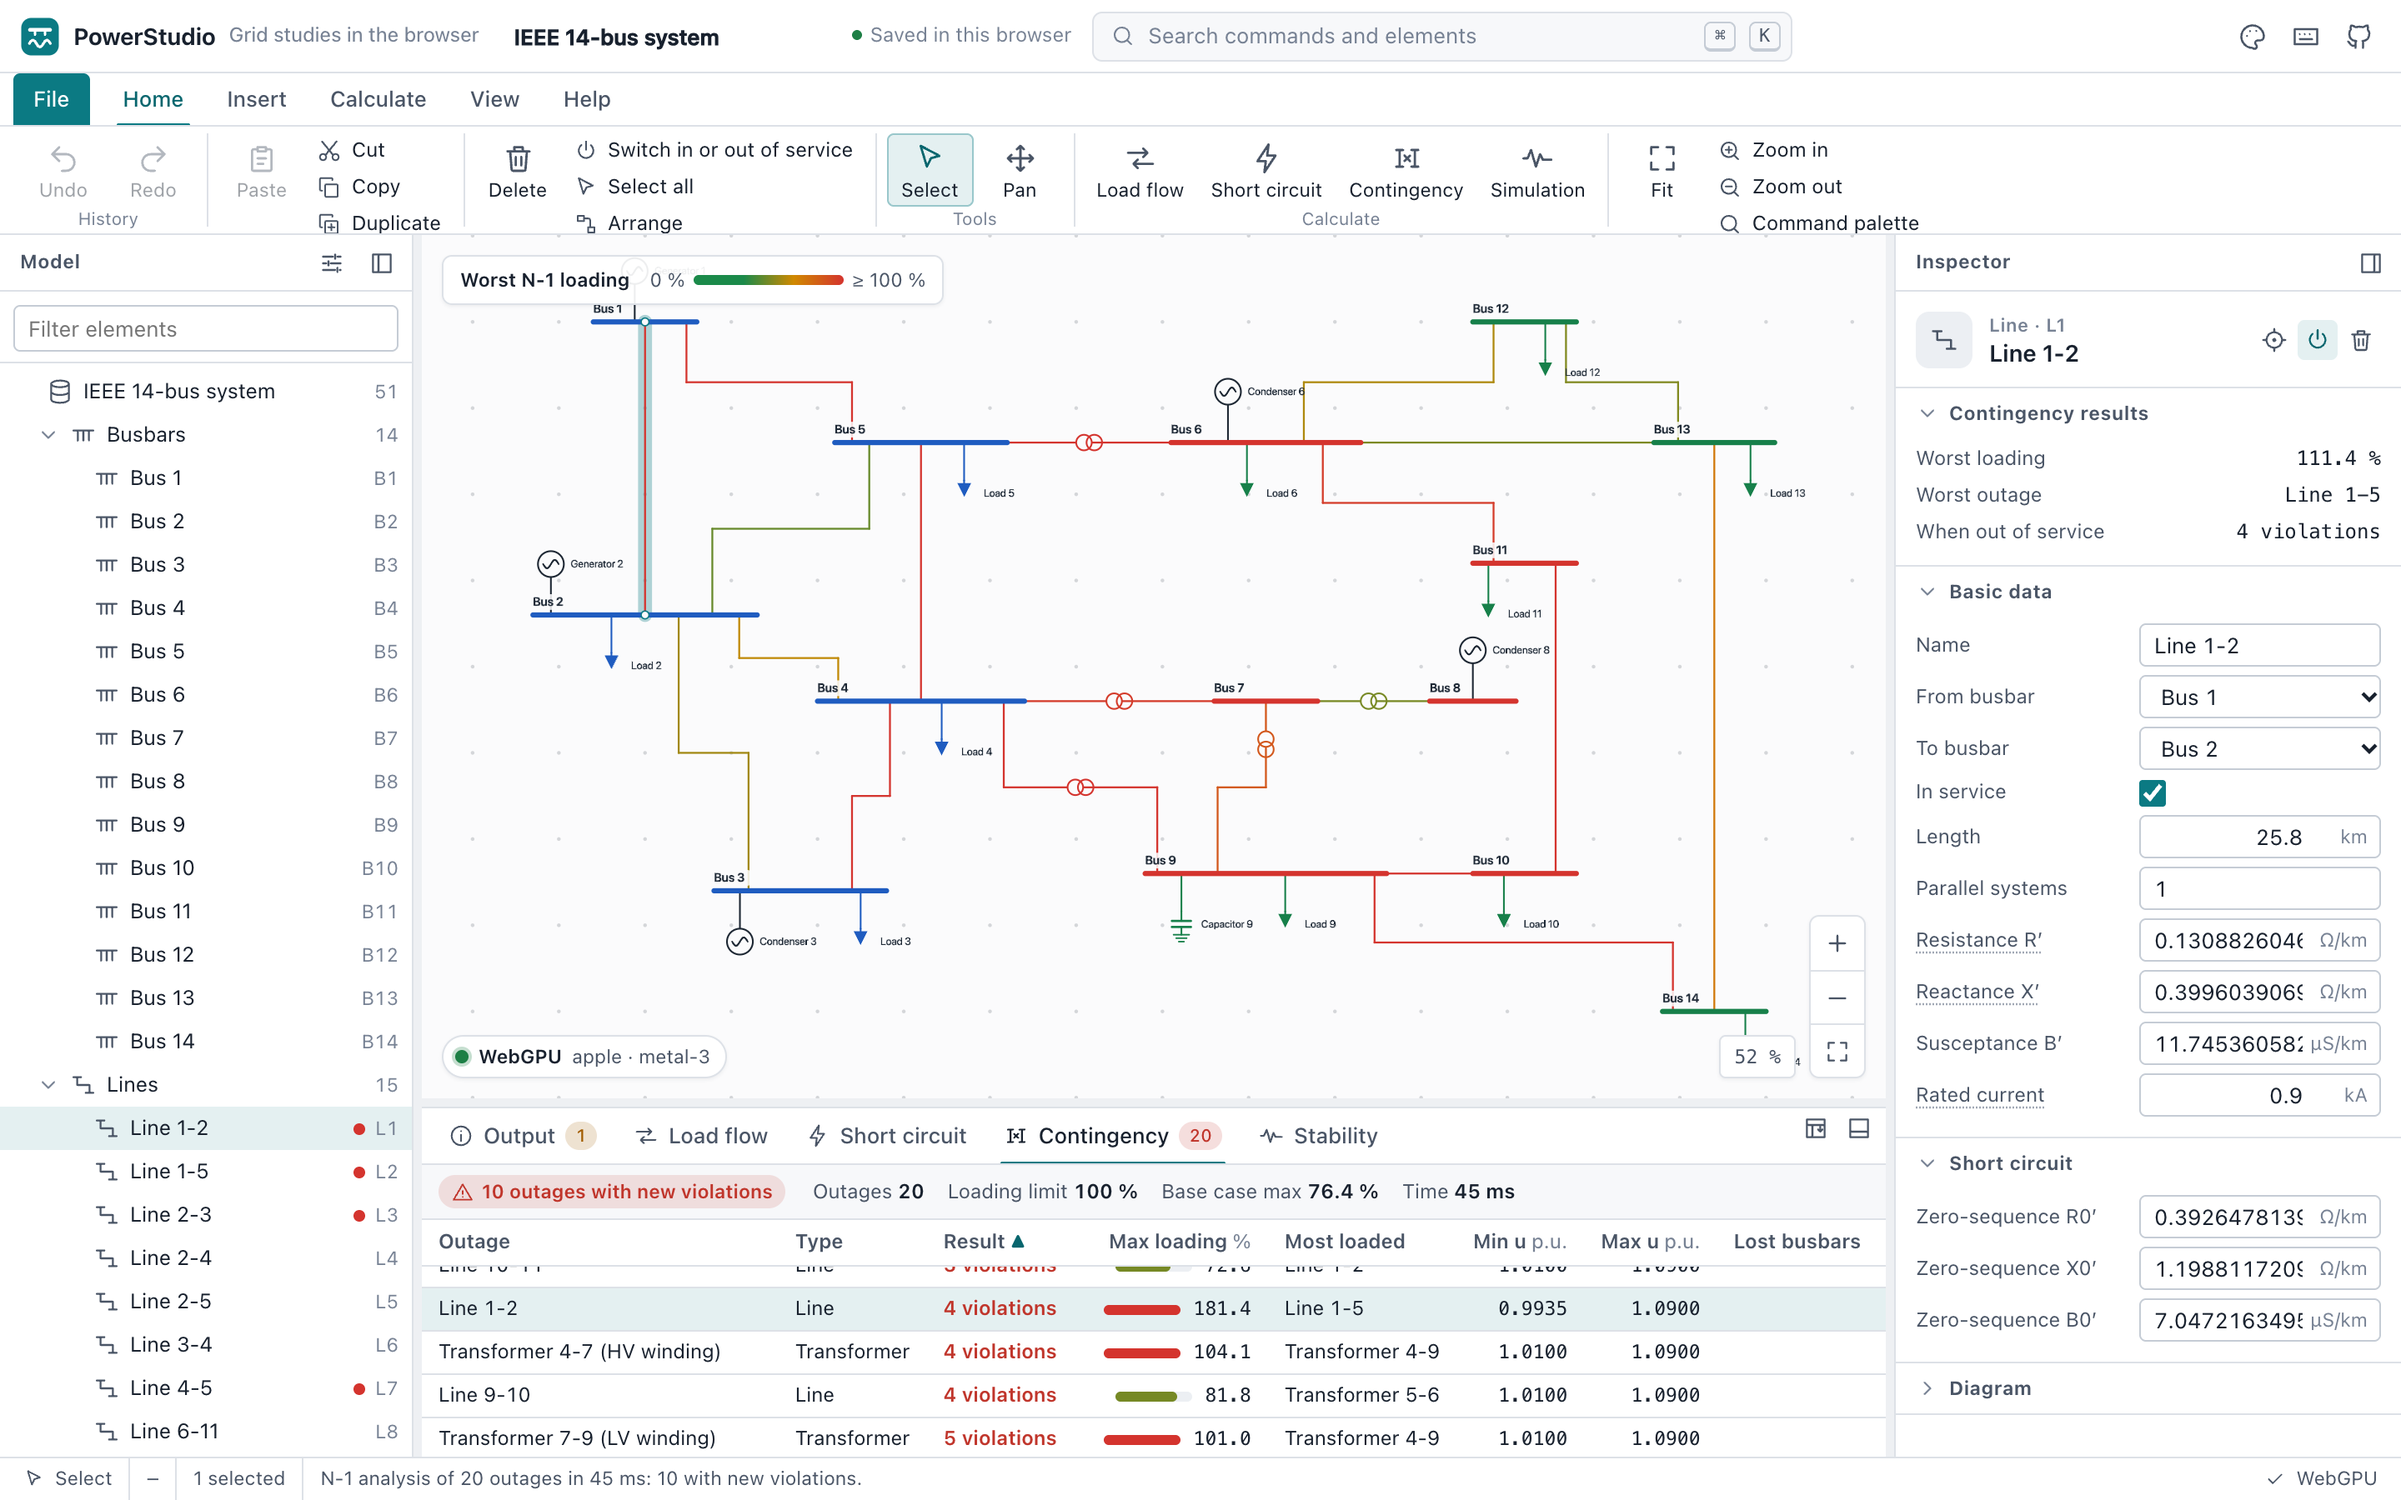
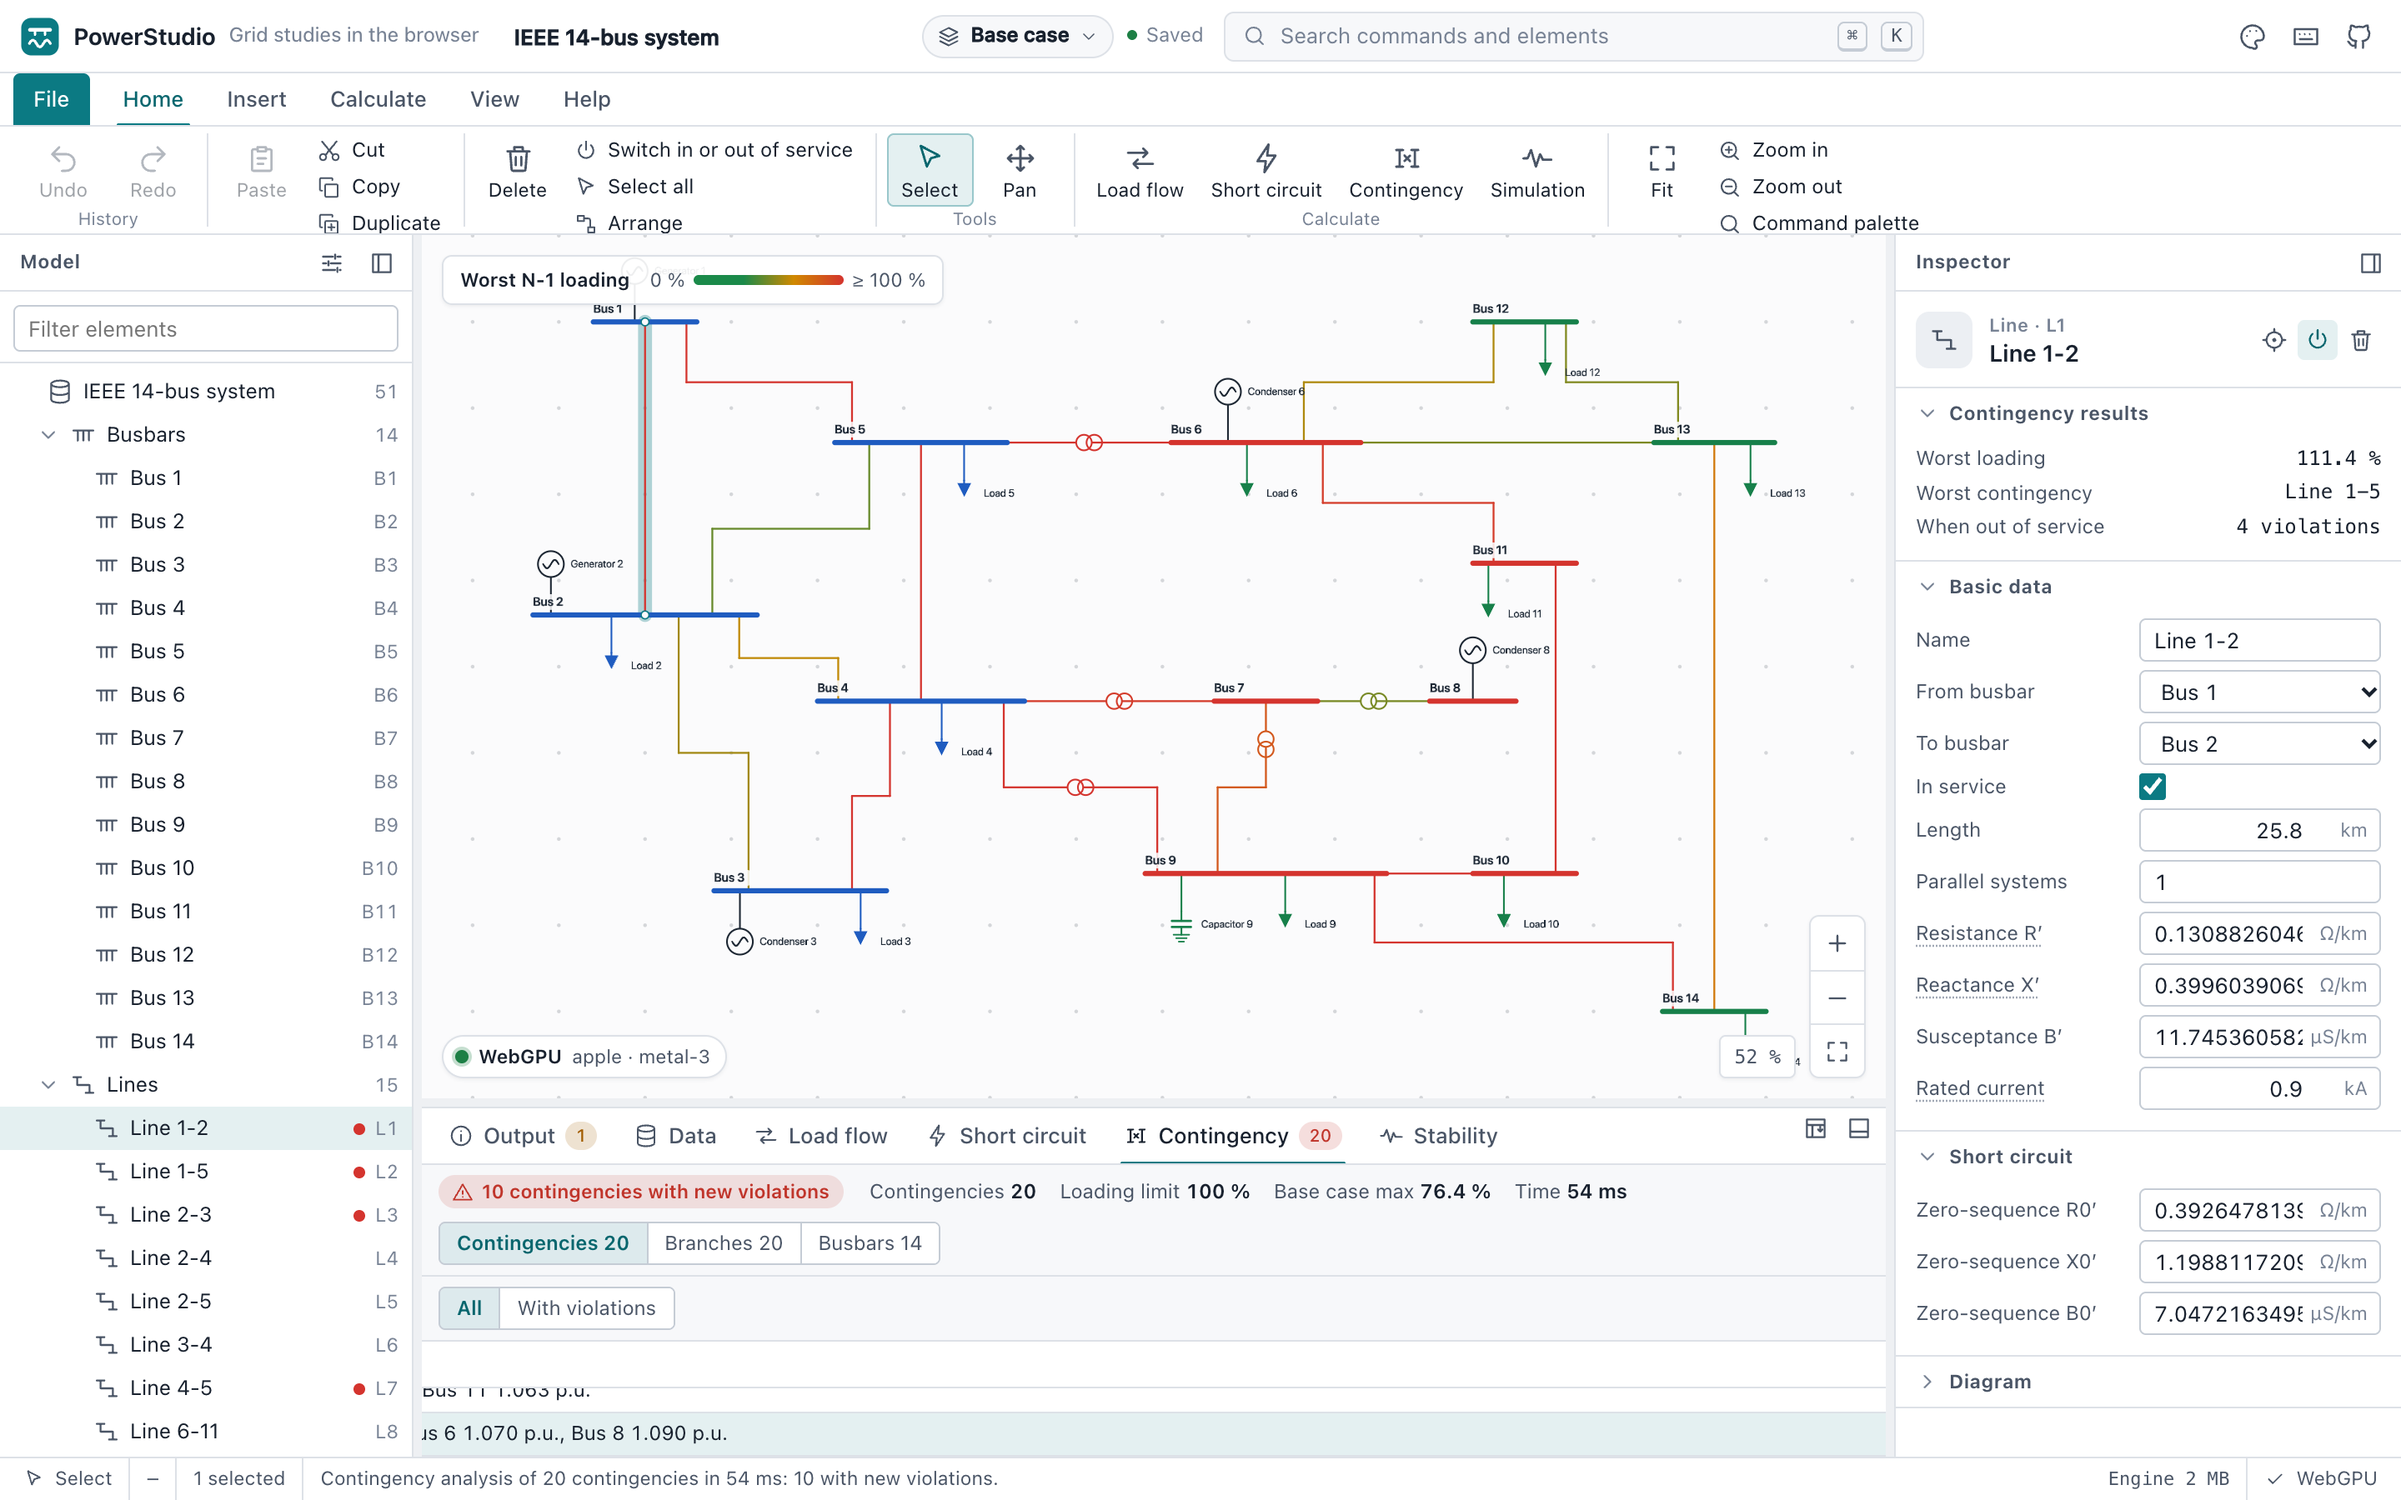
Dynamics close-out: 5 ms default step, report budget, rotor data checks, tests
- New study cases step at 5 ms: the implicit method stays within 0.13°
  of the ANDES references there, five times faster than at 1 ms.
- Large networks keep a report within six million values (at least 300
  samples a trace), so a 10,000-bus simulation at 1 ms no longer fails
  for size; each Newton iteration evaluates the units once unless a
  limit moved a variable. ACTIVSg10k: 11.6 s for 5 s at 1 ms, 3.1 s at
  5 ms.
- Round-rotor data out of order (Xd >= X'd >= X''d > Xl, Xq >= X'q > Xl)
  show at the machine in the inspector and stop a simulation with the
  reason before the engine runs.
- Tests: control edits through the engine-held document, the RAW and DYR
  flow in the browser at desktop and phone width, and the rotor check.
  Screenshots refreshed.

diff --git a/src/core/document.js b/src/core/document.js
@@ -4,7 +4,7 @@
  * is the one gate every document passes on the way in: it fills defaults, drops unknown keys, checks every value
  * against the catalogue and reports what it fixed or rejected. */
 
-import { CLASSES, checkValue, endsOf, isClass, makeElement, completeController } from './catalog.js';
+import { CLASSES, checkValue, endsOf, isClass, makeElement, completeController, rotorIssue } from './catalog.js';
 import { checkContingencies } from './contingencies.js';
 
 /**
@@ -81,7 +81,8 @@ export const STUDY_FIELDS = {
   ],
   rms: [
     { key: 'tEnd', label: 'Simulation time', type: 'number', group: 'rms', default: 3, unit: 's', min: 0.01, max: 120 },
-    { key: 'dt', label: 'Step size', type: 'number', group: 'rms', default: 0.001, unit: 's', min: 1e-5, max: 0.05 },
+    { key: 'dt', label: 'Step size', type: 'number', group: 'rms', default: 0.005, unit: 's', min: 1e-5, max: 0.05,
+      help: 'The integration step. The method is implicit, so 5 ms follows electromechanical swings and exciters closely; shorten it to resolve fast controls in more detail.' },
   ],
 };
 
@@ -262,11 +263,16 @@ export function* normalizeSteps(input) {
   return { doc, issues };
 }
 
-/** Structural problems that stop a calculation, as messages. @param {PowerDocument} doc @returns {string[]} */
-export function validateForCalculation(doc) {
+/** Structural problems that stop a calculation, as messages; a simulation also needs consistent round-rotor data.
+ * @param {PowerDocument} doc @param {string} [kind] the calculation @returns {string[]} */
+export function validateForCalculation(doc, kind) {
   const out = [];
   const byId = new Map(doc.elements.map(e => [e.id, e]));
   for (const el of doc.elements) {
+    if (kind === 'rms' && el.inService !== false) {
+      const issue = rotorIssue(el);
+      if (issue) out.push(`${labelOf(el)}: ${issue} Correct its round-rotor data or simulate it with the classical model.`);
+    }
     if (el.cls === 'line') {
       const a = byId.get(/** @type {string} */ (el.from)), b = byId.get(/** @type {string} */ (el.to));
       if (a && b && Math.abs(/** @type {number} */ (a.vn) - /** @type {number} */ (b.vn)) > 1e-9 * /** @type {number} */ (a.vn)) {

diff --git a/src/core/catalog.js b/src/core/catalog.js
@@ -138,6 +138,22 @@ export const CONTROLLERS = [
     par('VCL', 'Cut-off band below VCL', 0, PU, { help: 'Below the initial voltage (negative); zero means none.' })] },
 ];
 
+/** Why a round-rotor machine's data cannot be simulated, or '' when they can: the reactances must fall in order,
+ * Xd ≥ X′d ≥ X″d > Xl and Xq ≥ X′q > Xl (X″d is the short-circuit subtransient reactance).
+ * @param {Record<string, unknown>} el */
+export function rotorIssue(el) {
+  if (el.cls !== 'gen' || el.machineModel !== 'roundRotor') return '';
+  const n = (/** @type {string} */ k) => /** @type {number} */ (el[k]);
+  const order = [['xd', 'Xd'], ['xdt', 'X′d'], ['xdss', 'X″d']];
+  for (let i = 1; i < order.length; i++) {
+    if (n(order[i][0]) > n(order[i - 1][0])) return `${order[i][1]} (${n(order[i][0])} p.u.) is above ${order[i - 1][1]} (${n(order[i - 1][0])} p.u.).`;
+  }
+  if (n('xdss') <= n('xl')) return `The leakage reactance Xl (${n('xl')} p.u.) must be below X″d (${n('xdss')} p.u.).`;
+  if (n('xqt') > n('xq')) return `X′q (${n('xqt')} p.u.) is above Xq (${n('xq')} p.u.).`;
+  if (n('xqt') <= n('xl')) return `The leakage reactance Xl (${n('xl')} p.u.) must be below X′q (${n('xqt')} p.u.).`;
+  return '';
+}
+
 /** The control model with a name, or undefined. @param {unknown} model */
 export const controllerOf = model => CONTROLLERS.find(c => c.model === model);
 

diff --git a/src/ui/inspector.js b/src/ui/inspector.js
@@ -5,7 +5,7 @@ import { h, esc } from './dom.js';
 import { icon } from './icons.js';
 import { fieldRow } from './fields.js';
 import { fixed } from './format.js';
-import { CLASSES, CLASS_ORDER } from '../core/catalog.js';
+import { CLASSES, CLASS_ORDER, rotorIssue } from '../core/catalog.js';
 import { CLASS_ICON } from './tree.js';
 import { minOf, maxOf } from '../core/extent.js';
 
@@ -113,7 +113,10 @@ export class Inspector {
         if (f.when && !f.when(el)) continue;
         props.append(...fieldRow(f, el[f.key], v => app.tryEdit(`Edit ${f.label.toLowerCase()}`, () => app.store.transact(`Edit ${f.label.toLowerCase()}`, tx => tx.set(el.id, f.key, f.key === 'name' ? String(v).trim() : v), { coalesce: `field-${el.id}-${f.key}` })), { buses }));
       }
-      out.push(this.section(group, label, [props]));
+      // Round-rotor data that cannot be simulated, said where they are edited.
+      const issue = group === 'rms' ? rotorIssue(el) : '';
+      const warning = issue ? h('div', { class: 'stale', role: 'status', html: `${icon('warning', 14)}<span>${esc(issue)}</span>` }) : null;
+      out.push(this.section(group, label, warning ? [warning, props] : [props]));
     }
     return out;
   }

diff --git a/src/samples/ieee14.js b/src/samples/ieee14.js
@@ -87,7 +87,7 @@ export function ieee14() {
   doc.elements.push(makeElement('shunt', 'S9', { name: 'Capacitor 9', bus: 'B9', q: 19, p: 0, vn: LV, side: 'below' }));
   placeConnections(doc);
   doc.study.loadflow.tolerance = 0.001;
-  doc.study.rms = { tEnd: 3, dt: 0.001, events: [
+  doc.study.rms = { tEnd: 3, dt: 0.005, events: [
     { t: 0.1, kind: 'fault', target: 'B4' },
     { t: 0.18, kind: 'clear', target: 'B4' },
     { t: 0.18, kind: 'trip', target: 'L7' },

diff --git a/src/app.js b/src/app.js
@@ -768,7 +768,7 @@ export class App {
   /** @param {CalcKind} kind @param {{ auto?: boolean }} [opt] */
   async calc(kind, opt = {}) {
     const doc = this.store.doc;
-    const problems = validateForCalculation(doc);
+    const problems = validateForCalculation(doc, kind);
     if (problems.length) {
       for (const p of problems) this.log('error', p);
       if (!opt.auto) toast('error', problems[0], { title: `${CALC_LABEL[kind]} cannot run` });

diff --git a/src/samples/riverside.js b/src/samples/riverside.js
@@ -60,7 +60,7 @@ export function riverside() {
   E('shunt', 'S1', { name: 'Capacitor bank', bus: 'B2', q: 3, p: 0, vn: 20, pos: 0.42, side: 'above' });
 
   doc.study.shortcircuit.location = 'B5';
-  doc.study.rms = { tEnd: 2, dt: 0.001, events: [
+  doc.study.rms = { tEnd: 2, dt: 0.005, events: [
     { t: 0.1, kind: 'fault', target: 'B5' },
     { t: 0.25, kind: 'clear', target: 'B5' },
   ] };

diff --git a/engine/crates/ps-dyn/src/sim.rs b/engine/crates/ps-dyn/src/sim.rs
@@ -45,6 +45,10 @@ const MAX_ITER: usize = 25;
 const LOCK: usize = 4;
 /// How many times a step may be halved.
 const HALVINGS: usize = 6;
+/// Values the report may hold in all (samples times traces), and the samples each trace keeps at least: a 10,000-bus
+/// network keeps a few hundred samples of every voltage rather than a report too large to send.
+const VALUE_BUDGET: usize = 6_000_000;
+const MIN_SAMPLES: usize = 300;
 
 /// Traces of one machine or grid.
 #[derive(Debug, Clone, Serialize, PartialEq)]
@@ -310,7 +314,9 @@ impl<'a> System<'a> {
     }
 
     /// Updates the anti-windup holds for the iterate's right-hand sides and pins held variables to their limits.
-    fn hold(&mut self, z: &mut [f64], e: &Eval, iter: usize) {
+    /// Returns whether a variable moved.
+    fn hold(&mut self, z: &mut [f64], e: &Eval, iter: usize) -> bool {
+        let mut moved = false;
         for k in 0..self.nx {
             let Some((lo, hi)) = e.lim[k] else {
                 self.held[k] = 0;
@@ -329,12 +335,15 @@ impl<'a> System<'a> {
             } else {
                 now
             };
-            match self.held[k] {
-                1 => z[k] = hi,
-                -1 => z[k] = lo,
-                _ => {}
-            }
+            let pin = match self.held[k] {
+                1 => hi,
+                -1 => lo,
+                _ => continue,
+            };
+            moved |= z[k] != pin;
+            z[k] = pin;
         }
+        moved
     }
 
     /// The residual of a step of length `h` from `(z0, f0)`, or of the algebraic equations alone when `h` is `None`
@@ -437,8 +446,9 @@ impl<'a> System<'a> {
         let mut fresh = false;
         for iter in 0..MAX_ITER {
             self.eval(z, e);
-            self.hold(z, e, iter);
-            self.eval(z, e);
+            if self.hold(z, e, iter) {
+                self.eval(z, e);
+            }
             let stale = self.factored_for.0 != h || self.factored_for.1 != self.held;
             if !self.factored || stale || (iter >= SLOW && !fresh) {
                 self.factor(z, h)?;
@@ -699,7 +709,8 @@ impl Recorder {
     }
 }
 
-/// Simulates the settings' events from a solved load flow of `calc`. `max_samples` bounds the samples kept;
+/// Simulates the settings' events from a solved load flow of `calc`. `max_samples` bounds the samples kept, as does
+/// the report's budget of values on a large network;
 /// `progress` receives (simulated time, end time). Returns the report and the full-precision trajectory at the same
 /// samples.
 pub fn simulate_detailed(
@@ -943,10 +954,11 @@ pub fn simulate_detailed(
         .collect();
     events.sort_by(|a, b| a.event.t.partial_cmp(&b.event.t).unwrap_or(std::cmp::Ordering::Equal));
     let steps_planned = (t_end / dt - 1e-9).ceil().max(1.0) as usize;
-    let every = (steps_planned + 1 + 2 * events.len())
-        .div_ceil(max_samples.max(1))
-        .max(1);
     let n_units = sys.units.len() + sys.grids.len();
+    // Each machine and grid has six traces, each bus one.
+    let traces = nb + 6 * n_units;
+    let samples = max_samples.min((VALUE_BUDGET / traces.max(1)).max(MIN_SAMPLES)).max(1);
+    let every = (steps_planned + 1 + 2 * events.len()).div_ceil(samples).max(1);
     let mut rec = Recorder {
         every,
         traj: Trajectory {

diff --git a/engine/crates/ps-model/src/study.rs b/engine/crates/ps-model/src/study.rs
@@ -359,7 +359,7 @@ impl Default for RmsSettings {
     fn default() -> Self {
         Self {
             t_end: 3.0,
-            dt: 0.001,
+            dt: 0.005,
             events: Vec::new(),
         }
     }
